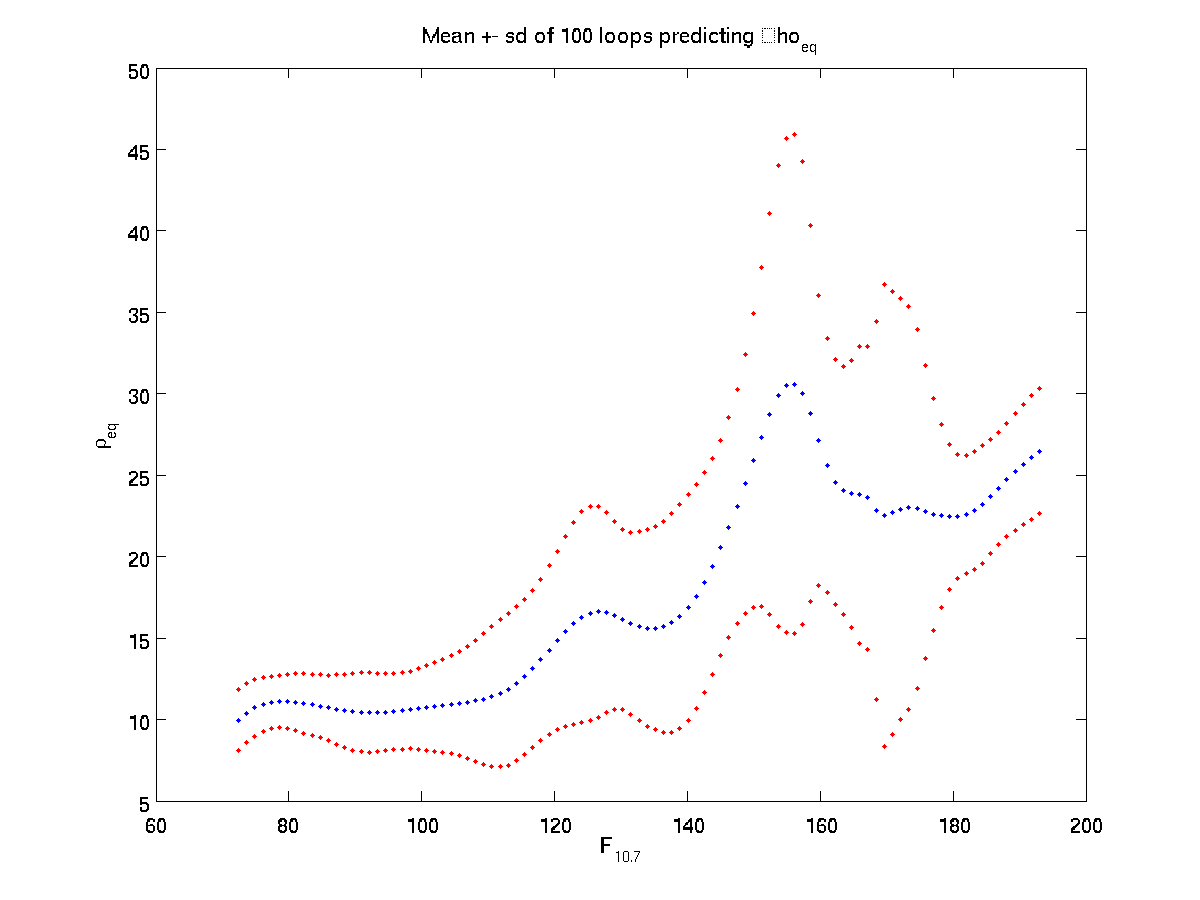
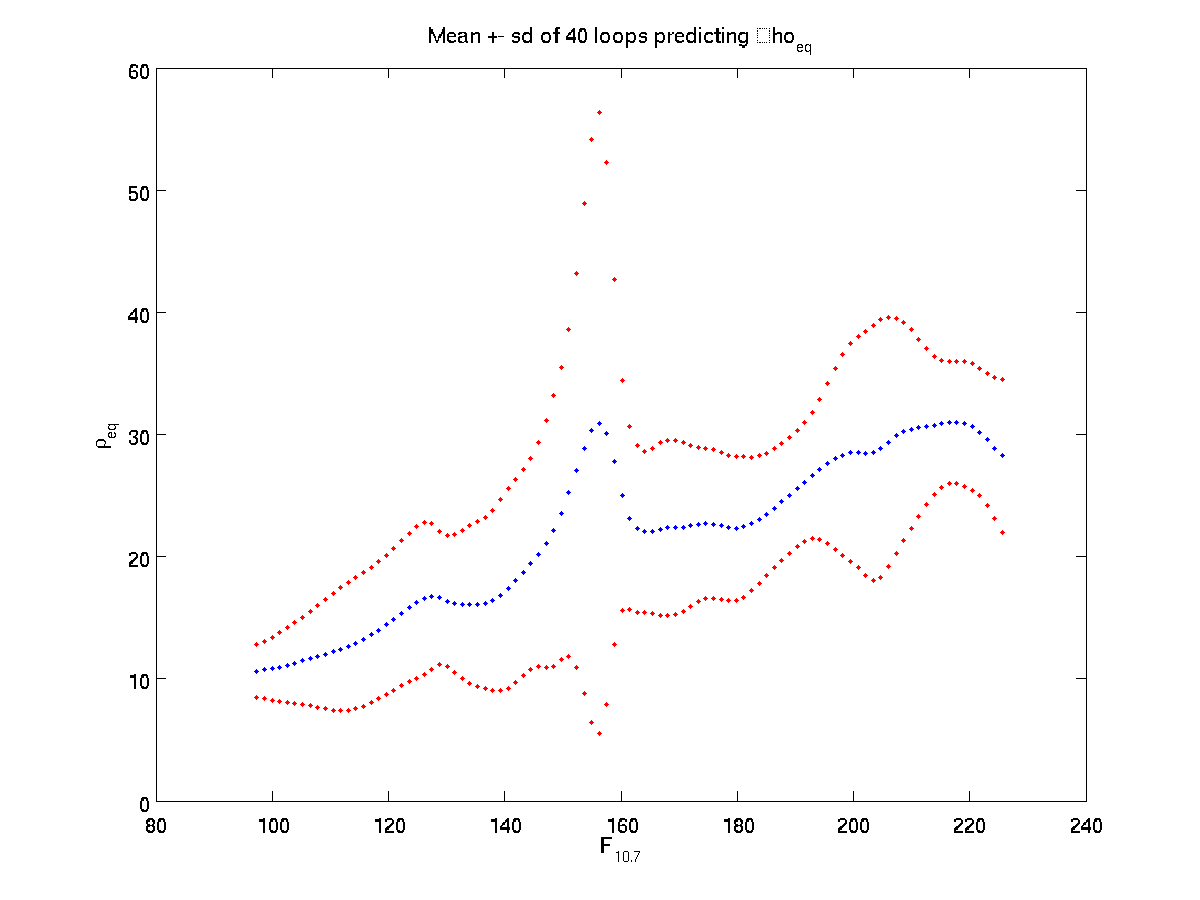
Updated plots, table with doy

diff --git a/Density.m b/Density.m
@@ -403,10 +403,11 @@ if(LongTimeScale>1)
 end
 
 if(nnanalysis) %Because the nn validation and test sets vary so much in effectiveness, just do it a bunch and get the mean/sd
-    loops=100;
-    
-    xtest=linspace(nanmean(FILLED(:,30))-nanstd(FILLED(:,30)),nanmean(FILLED(:,30))+nanstd(FILLED(:,30)));
-    [testmean,testsd]=nnbehavior(nanmedian(AVMat(:,20:25,30),2),nanmedian(AVMDMat(:,26:30),2),xtest,1,loops);
+    loops=40;
+    x=nanmedian(AVMat(:,20:25,30),2);
+    z=nanmedian(AVMDMat(:,26:30),2);
+    xtest=linspace(nanmean(x)-nanstd(x),nanmean(x)+nanstd(x));
+    [testmean,testsd]=nnbehavior(x,z,xtest,1,loops);
     
     figure; plot(xtest(2:end),testmean,'.')
     hold on; plot(xtest(2:end),[testmean+testsd; testmean-testsd],'r.')
@@ -415,9 +416,9 @@ if(nnanalysis) %Because the nn validation and test sets vary so much in effectiv
     title(sprintf('Mean +- sd of %d loops predicting \rho_{eq}',loops))
     print -dpng figures/NNF107Rho.png
     
-    
-    xtest=linspace(nanmean(FILLED(:,5))-nanstd(FILLED(:,5)),nanmean(FILLED(:,5))+nanstd(FILLED(:,5)));
-    [testmean,testsd]=nnbehavior(nanmedian(AVMat(:,20:25,5),2),nanmedian(AVMDMat(:,26:30),2),xtest,1,loops);
+    x=nanmedian(AVMat(:,20:25,5),2);
+    xtest=linspace(nanmean(x)-nanstd(x),nanmean(x)+nanstd(x));
+    [testmean,testsd]=nnbehavior(x,z,xtest,1,loops);
     
     figure; plot(xtest(2:end),testmean,'.')
     hold on; plot(xtest(2:end),[testmean+testsd; testmean-testsd],'r.')
@@ -427,12 +428,14 @@ if(nnanalysis) %Because the nn validation and test sets vary so much in effectiv
     print -dpng figures/NNBzRho.png
     
     outputs=[];
-    ytest=linspace(nanmean(FILLED(:,30))-nanstd(FILLED(:,30)),nanmean(FILLED(:,30))+nanstd(FILLED(:,30)));
-    [testmean,testsd]=nnbehavior2(nanmedian(AVMat(:,20:25,[5 30]),2),nanmedian(AVMDMat(:,26:30),2),xtest,ytest,1,loops);
+    y=nanmedian(AVMat(:,20:25,30),2);
+    ytest=linspace(nanmean(y)-nanstd(y),nanmean(y)+nanstd(y));
+    [testmean,testsd]=nnbehavior2(nanmedian(AVMat(:,20:25,[5 30]),2),z,xtest,ytest,1,loops);
     
     figure; surf(xtest(2:end),ytest,testmean,'EdgeColor','none','LineStyle','none','FaceLighting','phong') %Even though phong is deprecated, it's the only one that plots without corruption
     view(0,90); ylabel('F10.7'); xlabel('Bz'); colorbar
     title(sprintf('Mean +- sd of %d loops predicting \rho_{eq}',loops))
+    hold on; plot3(x,y,repmat(100,1,length(y)),'k.')
     print -dpng figures/NNF107BzRho.png
     
     figure; surf(xtest(2:end),ytest,testsd,'EdgeColor','none','LineStyle','none','FaceLighting','phong') %Even though phong is deprecated, it's the only one that plots without corruption
@@ -441,8 +444,9 @@ if(nnanalysis) %Because the nn validation and test sets vary so much in effectiv
     print -dpng figures/NNF107BzRho-sd.png
     
     %Same thing but Vsw
-    xtest=linspace(nanmean(FILLED(:,6))-nanstd(FILLED(:,6)),nanmean(FILLED(:,6))+nanstd(FILLED(:,6)));
-    [testmean,testsd]=nnbehavior(nanmedian(AVMat(:,20:25,6),2),nanmedian(AVMDMat(:,26:30),2),xtest,1,loops);
+    x=nanmedian(AVMat(:,20:25,6),2);
+    xtest=linspace(nanmean(x)-nanstd(x),nanmean(x)+nanstd(x));
+    [testmean,testsd]=nnbehavior(x,y,xtest,1,loops);
     
     figure; plot(xtest(2:end),testmean,'.')
     hold on; plot(xtest(2:end),[testmean+testsd; testmean-testsd],'r.')
@@ -452,7 +456,8 @@ if(nnanalysis) %Because the nn validation and test sets vary so much in effectiv
     print -dpng figures/NNVswRho.png
     
     outputs=[];
-    ytest=linspace(nanmean(FILLED(:,30))-nanstd(FILLED(:,30)),nanmean(FILLED(:,30))+nanstd(FILLED(:,30)));
+    y=nanmedian(AVMat(:,20:25,30),2);
+    ytest=linspace(nanmean(y)-nanstd(y),nanmean(y)+nanstd(y));
     [testmean,testsd]=nnbehavior2(nanmedian(AVMat(:,20:25,[6 30]),2),nanmedian(AVMDMat(:,26:30),2),xtest,ytest,1,loops);
     
     figure; surf(xtest(2:end),ytest,testmean,'EdgeColor','none','LineStyle','none','FaceLighting','phong') %Even though phong is deprecated, it's the only one that plots without corruption
@@ -461,6 +466,7 @@ if(nnanalysis) %Because the nn validation and test sets vary so much in effectiv
     xlabel('Vsw')
     title(sprintf('Mean predicted \rho_{eq} over %d loops',loops))
     colorbar
+    hold on; plot3(x,y,repmat(100,1,length(y)),'k.')
     print -dpng figures/NNF107VswRho.png
     
     figure; surf(xtest(2:end),ytest,testsd,'EdgeColor','none','LineStyle','none','FaceLighting','phong') %Even though phong is deprecated, it's the only one that plots without corruption
@@ -472,7 +478,7 @@ if(nnanalysis) %Because the nn validation and test sets vary so much in effectiv
     print -dpng figures/NNF107VswRho-sd.png
     
     %Same thing but MLT
-     xtest=linspace(nanmean(FILLED(:,29))-nanstd(FILLED(:,29)),nanmean(FILLED(:,29))+nanstd(FILLED(:,29)));
+    xtest=linspace(0,24);
     
     [testmean,testsd]=nnbehavior(nanmedian(AVMat(:,20:25,29),2),nanmedian(AVMDMat(:,26:30),2),xtest,1,loops);
     
@@ -484,8 +490,9 @@ if(nnanalysis) %Because the nn validation and test sets vary so much in effectiv
     print -dpng figures/NNMLTRho.png
     
     outputs=[];
-    ytest=linspace(nanmean(FILLED(:,30))-nanstd(FILLED(:,30)),nanmean(FILLED(:,30))+nanstd(FILLED(:,30)));
-    [testmean,testsd]=nnbehavior2(nanmedian(AVMat(:,20:25,[29 30]),2),nanmedian(AVMDMat(:,26:30),2),xtest,ytest,1,loops);
+    y=nanmedian(AVMat(:,20:25,30),2);
+    ytest=linspace(nanmean(y)-nanstd(y),nanmean(y)+nanstd(y));
+    [testmean,testsd]=nnbehavior2(nanmedian(AVMat(:,20:25,[29 30]),2),y,xtest,ytest,1,loops);
     
     figure; surf(xtest(2:end),ytest,testmean,'EdgeColor','none','LineStyle','none','FaceLighting','phong') %Even though phong is deprecated, it's the only one that plots without corruption
     view(0,90)
@@ -493,6 +500,7 @@ if(nnanalysis) %Because the nn validation and test sets vary so much in effectiv
     xlabel('MLT')
     title(sprintf('Mean predicted \rho_{eq} over %d loops',loops))
     colorbar
+    hold on; plot3(x,y,repmat(100,1,length(y)),'k.')
     print -dpng figures/NNF107MLTRho.png
     
     figure; surf(xtest(2:end),ytest,testsd,'EdgeColor','none','LineStyle','none','FaceLighting','phong') %Even though phong is deprecated, it's the only one that plots without corruption
@@ -504,33 +512,39 @@ if(nnanalysis) %Because the nn validation and test sets vary so much in effectiv
     print -dpng figures/NNF107MLTRho-sd.png
 
     
-    PermNames={'Bz','Vsw','Dst','MLT','F107'};
-    PermCols=[5 6 15 29 30];
+    fprintf('Figures done. Doing table\n');
+    PermNames={'doy','Bz','Vsw','Dst','MLT','F107'};
+    PermCols=[2 5 6 15 29 30];
     
     table=fopen('NNtable.txt','w');
     fprintf(table,'<pre>\n');
     fprintf(table,'Vars \t \t  CCtr  NNtr  CCt   NNt   CCv   NNv\n');
-    Perms=combnk(1:5,1);
+    Perms=combnk(1:6,1);
     for i=1:length(Perms)
         CCMs(:,:)=nntest(nanmedian(AVMat(:,20:25,PermCols(Perms(i,:))),2),nanmedian(AVMDMat(:,26:30),2),1,loops,1);
         fprintf(table,'%s      \t- %+2.2f %+2.2f %+2.2f %+2.2f %+2.2f %+2.2f \n',strjoin(PermNames(Perms(i,:)),'+'),CCMs(:));
     end   
-    Perms=combnk(1:5,2);
+    Perms=combnk(1:6,2);
     for i=1:length(Perms)
         CCMs(:,:)=nntest(nanmedian(AVMat(:,20:25,PermCols(Perms(i,:))),2),nanmedian(AVMDMat(:,26:30),2),1,loops,1);
         fprintf(table,'%s   \t- %+2.2f %+2.2f %+2.2f %+2.2f %+2.2f %+2.2f \n',strjoin(PermNames(Perms(i,:)),'+'),CCMs(:));
     end    
-    Perms=combnk(1:5,3);
+    Perms=combnk(1:6,3);
     for i=1:length(Perms)
         CCMs(:,:)=nntest(nanmedian(AVMat(:,20:25,PermCols(Perms(i,:))),2),nanmedian(AVMDMat(:,26:30),2),1,loops,1);
         fprintf(table,'%s   \t- %+2.2f %+2.2f %+2.2f %+2.2f %+2.2f %+2.2f \n',strjoin(PermNames(Perms(i,:)),'+'),CCMs(:));
     end 
-    Perms=combnk(1:5,4);
+    Perms=combnk(1:6,4);
     for i=1:length(Perms)
-        CCMs(:,:)=nntest(nanmedian(AVMat(:,20:25,PermCols(Perms(:))),2),nanmedian(AVMDMat(:,26:30),2),1,loops,1);
-        fprintf(table,'%s\t- %+2.2f %+2.2f %+2.2f %+2.2f %+2.2f %+2.2f \n',strjoin(PermNames(Perms(:)),'+'),CCMs(:));
+        CCMs(:,:)=nntest(nanmedian(AVMat(:,20:25,PermCols(Perms(i,:))),2),nanmedian(AVMDMat(:,26:30),2),1,loops,1);
+        fprintf(table,'%s\t- %+2.2f %+2.2f %+2.2f %+2.2f %+2.2f %+2.2f \n',strjoin(PermNames(Perms(i,:)),'+'),CCMs(:));
     end
-    Perms=combnk(1:5,5);
+    Perms=combnk(1:6,5);
+    for i=1:length(Perms)
+        CCMs(:,:)=nntest(nanmedian(AVMat(:,20:25,PermCols(Perms(i,:))),2),nanmedian(AVMDMat(:,26:30),2),1,loops,1);
+        fprintf(table,'%s\t- %+2.2f %+2.2f %+2.2f %+2.2f %+2.2f %+2.2f \n',strjoin(PermNames(Perms(i,:)),'+'),CCMs(:));
+    end
+    Perms=combnk(1:6,6);
     CCMs(:,:)=nntest(nanmedian(AVMat(:,20:25,PermCols(Perms(:))),2),nanmedian(AVMDMat(:,26:30),2),1,loops,1);
     fprintf(table,'%s\t- %+2.2f %+2.2f %+2.2f %+2.2f %+2.2f %+2.2f \n',strjoin(PermNames(Perms(:)),'+'),CCMs(:));
     
